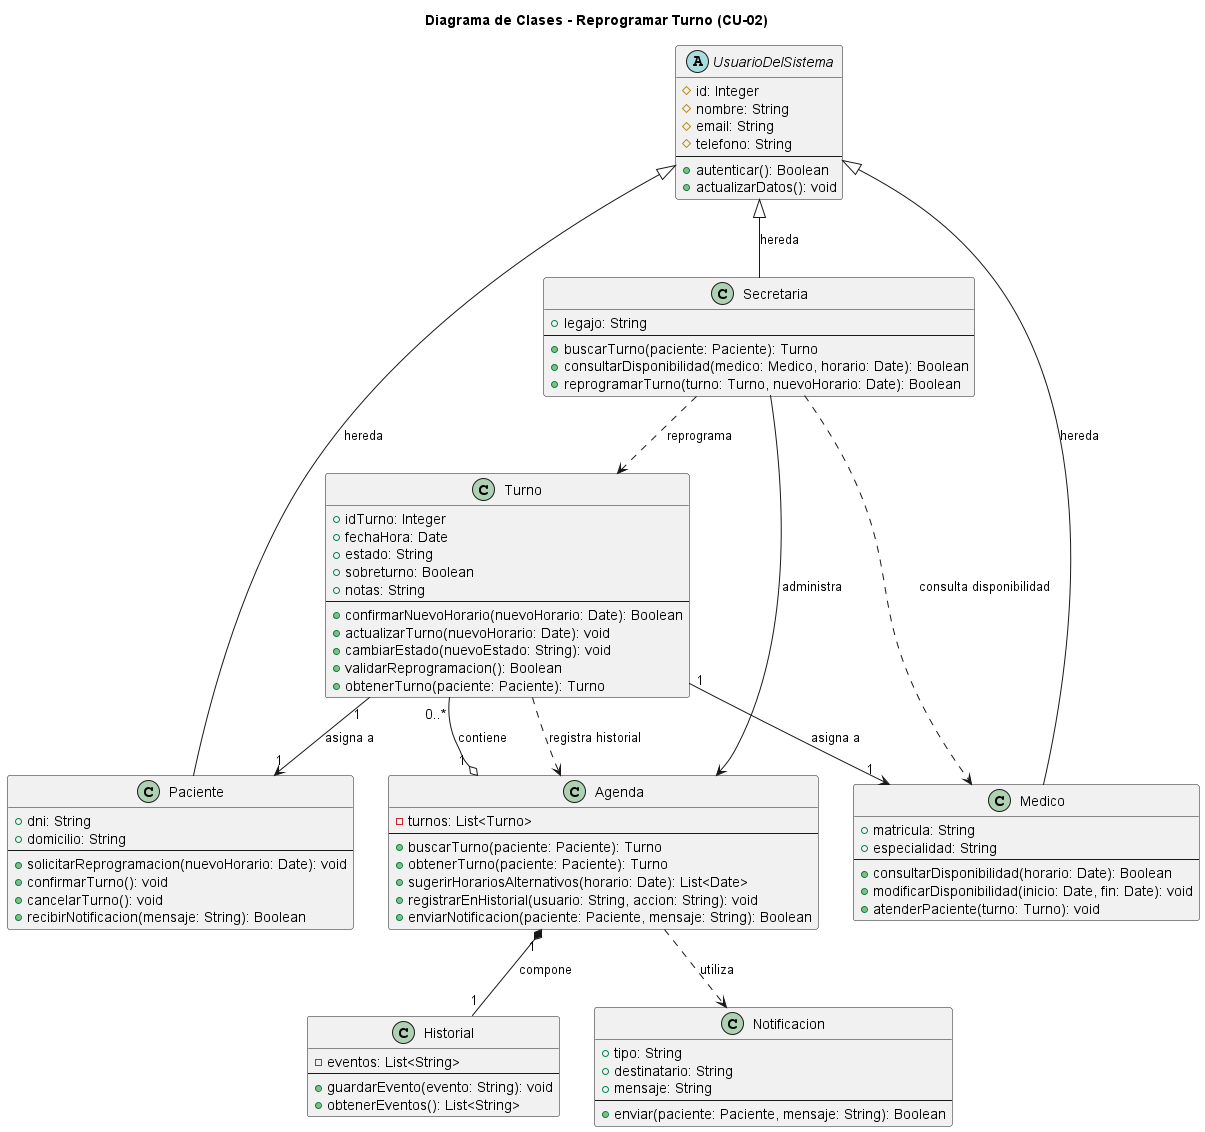
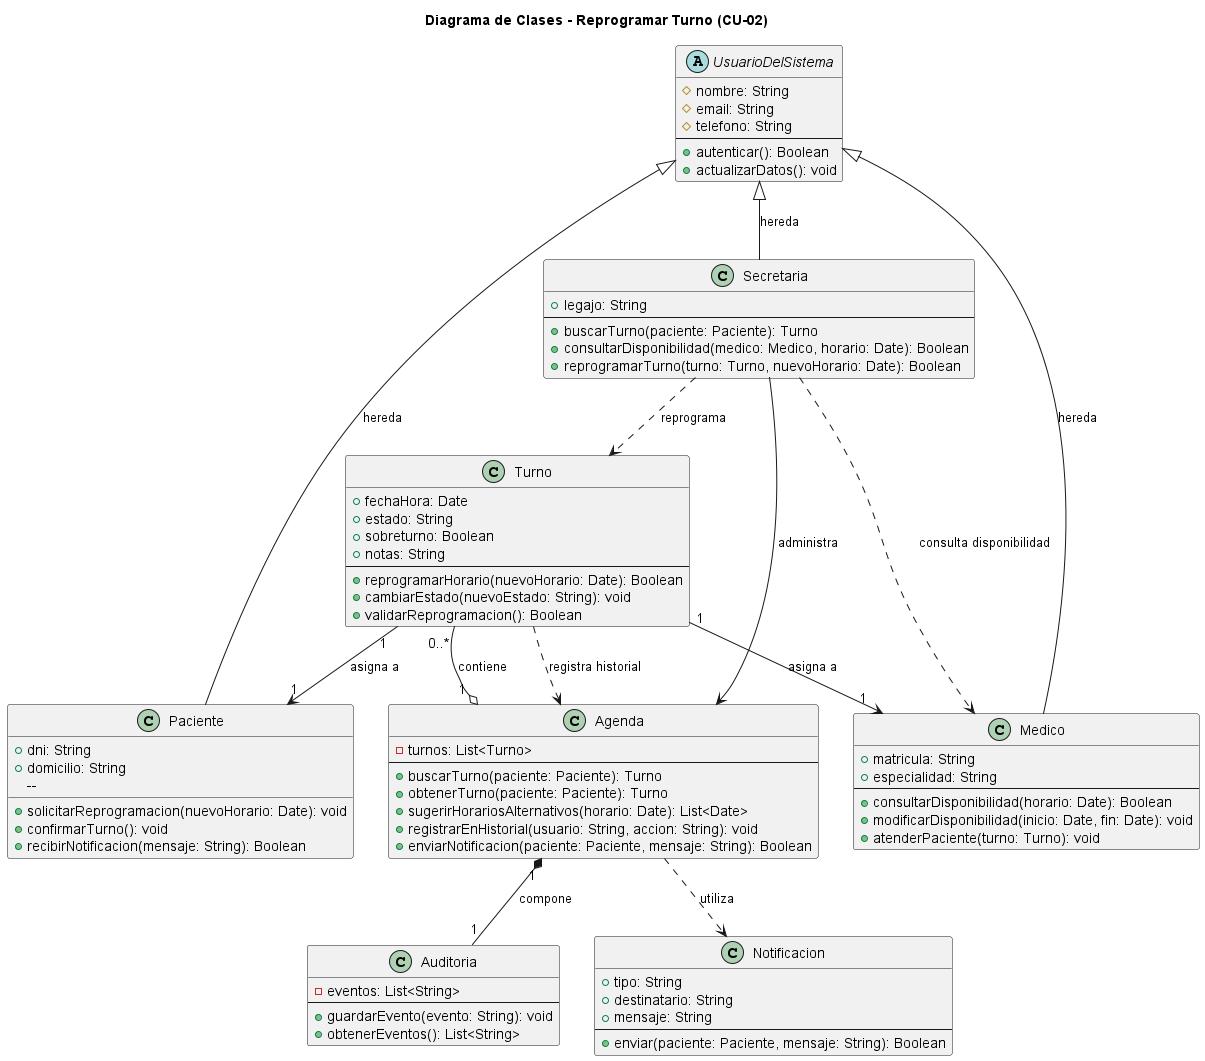
fix: corregidos diagramas y archivo analisis md de crear turno

diff --git a/anexos/analisis-funcional/01-caso-de-uso-crear-turno.md b/anexos/analisis-funcional/01-caso-de-uso-crear-turno.md
@@ -157,11 +157,14 @@
 
 | Clase | Responsabilidad (según tarjeta CRC) | Tarjeta CRC |
 |-------|-------------------------------------|-------------|
-| Paciente | Solicitar turno médico, autenticarse en el sistema, confirmar o cancelar turno, recibir notificaciones de turno y gestionar datos personales | [link al archivo .md](../../herramientas-agile/tarjetas-crc/01-tarjeta-crc-paciente.md) |
+| UsuarioDelSistema | Autenticar en el sistema y gestionar datos personales | [link al archivo .md](../../herramientas-agile/tarjetas-crc/06-tarjeta-crc-usuariodelsistema.md) |
+| Paciente | Solicitar turno médico, confirmar o cancelar turno, recibir notificaciones de turno | [link al archivo .md](../../herramientas-agile/tarjetas-crc/01-tarjeta-crc-paciente.md) |
 | Medico | Consultar agenda de turnos, atender pacientes, registrar observaciones médicas y modificar disponibilidad | [link al archivo .md](../../herramientas-agile/tarjetas-crc/02-tarjeta-crc-medico.md) |
 | Turno | Registrar solicitud de turno, asignar turno a paciente y médico, modificar estado del turno y reprogramar turno | [link al archivo .md](../../herramientas-agile/tarjetas-crc/03-tarjeta-crc-turno.md) |
 | Agenda | Registrar disponibilidad de médicos, mostrar turnos programados y permitir búsqueda de turnos | [link al archivo .md](../../herramientas-agile/tarjetas-crc/04-tarjeta-crc-agenda.md) |
 | Secretaria | Gestionar turnos, dar alta y baja a pacientes y consultar/modificar agendar médicas | [link al archivo .md](../../herramientas-agile/tarjetas-crc/05-tarjeta-crc-secretaria.md) |
+| Notificacion | Notificar cambios y detalles de turno a pacientes y medicos | [link al archivo .md](../../herramientas-agile/tarjetas-crc/07-tarjeta-crc-notificacion.md) |
+| Auditoria | Registrar cambios junto con el usuario asociado | [link al archivo .md](../../herramientas-agile/tarjetas-crc/08-tarjeta-crc-auditoria.md) |
 |
 
 **Relaciones UML:**
@@ -177,6 +180,8 @@
 | Agregación | Agenda ```"1" o--``` Turno ```0..*``` | Es agregación (no composición) porque Agenda contiene múltiples Turnos sin controlar su ciclo de vida completo. Los Turnos pueden existir lógicamente independientes de esta Agenda específica. |
 | Asociación | Turno ```"1"-->``` Paciente ```"1"``` | Cada Turno se asigna a exactamente un Paciente específico. Es asociación porque existe una relación de negocio significativa: el turno registra la cita médica del paciente. |
 | Asociación | Turno ```"1"-->``` Medico ```"1"``` | Cada Turno se asigna a exactamente un Medico que lo atiende. Es asociación porque la relación es fundamental para el dominio: identifica quién atiende la cita. |
+| Composición | Agenda ```"1"*-->``` Notificacion ```0..*``` | Cada vez que se registra un nuevo turno o cambio en la agenda, se envía una notificación tanto para el médico como para el paciente. Es composición ya que Notificación solo responde a Agenda. |
+| Composición | Agenda ```"1"*-->``` Auditoria ```0..*``` | Cada vez que se registra un nuevo turno o cambio en la agenda, se registra el cambio con todos los detalles a auditoria. Es composición ya que Auditoria solo responde a Agenda. |
 
 ---
 
@@ -243,10 +248,10 @@ turno.asignarEstado("Confirmado")
 
 // Se registra el evento en auditoría para mantener trazabilidad
 // del usuario (Secretaria) que realizó la acción
-agenda.registrarEnHistorial(usuario="secretaria", accion="crear_turno")
+auditoria.guardarEvento(usuario="secretaria", accion="crear_turno")
 
 // Se envía notificación al paciente confirmando su turno
-agenda.enviarNotificacion(paciente, mensaje="Turno confirmado")
+notificacion.enviar(paciente, mensaje="Turno confirmado")
 
 // Se muestra la confirmación a la secretaria en la agenda del médico
 secretaria.consultarAgendaMedica(medico)

diff --git a/changelog.md b/changelog.md
@@ -26,6 +26,7 @@
 
 - [fix/crear-turno-correcciones-1] Se corrigen 01-caso-de-uso-crear-turno.md, 01-clases-crear-turno-01.puml, analisis_casos_uso.md y 06-clases-diagrama-final.puml. PR: [#121](https://github.com/eternalnight04/SistemaTurnosMedicos/pull/121) - @eternalnight04 (Documentador y Coordinador)
 
+- [fix/crear-turno-correcciones-2] Se eliminan iDs de los diagramas y se agregaron tres nuevas tarjetas CRC: Auditoria, UsuarioDelSistema y Notificacion. PR: [#124](https://github.com/eternalnight04/SistemaTurnosMedicos/pull/124) - @eternalnight04 (Documentador y Coordinador)
 
 ## [Released - Actividad Obligatoria N°3] - 2026-05-17
 